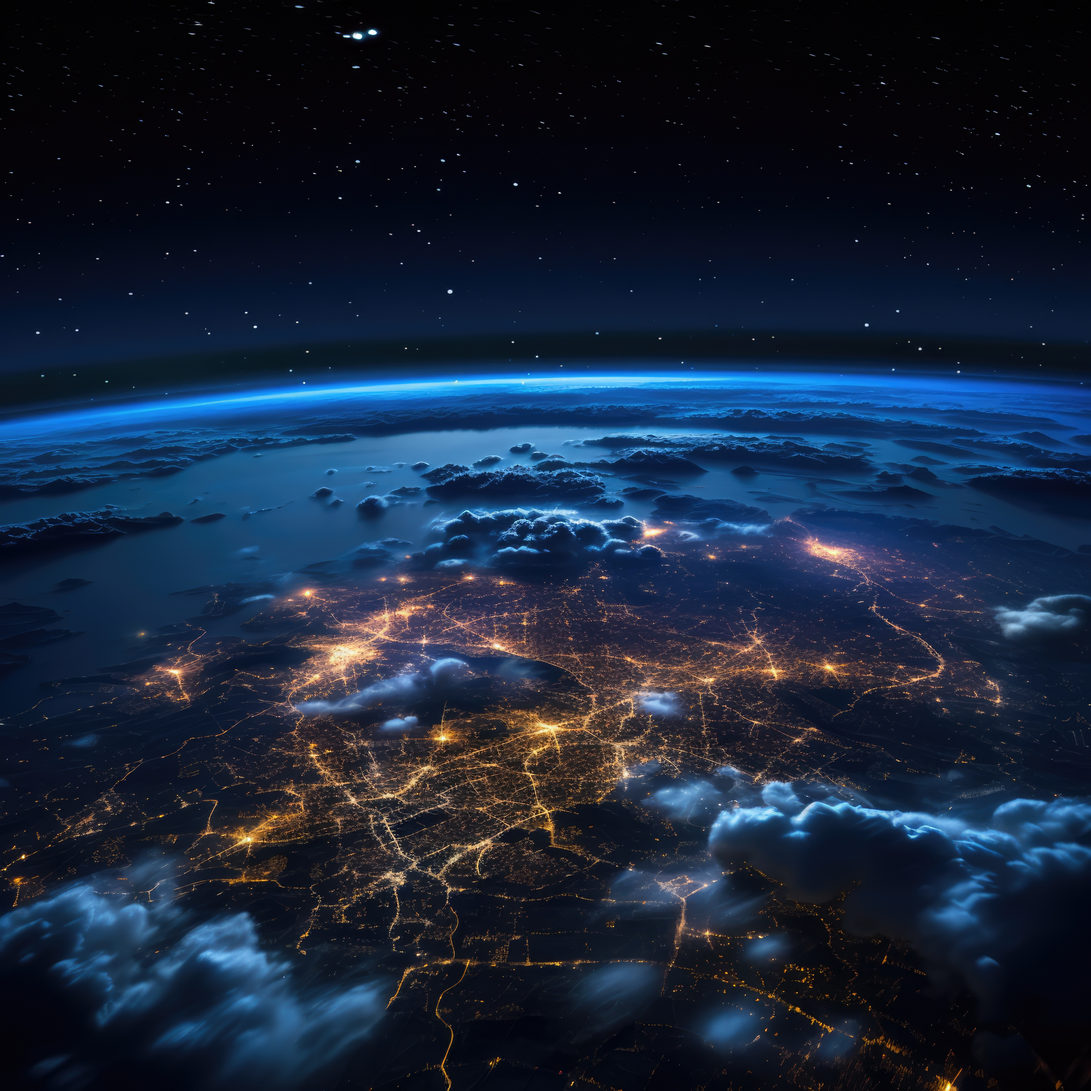
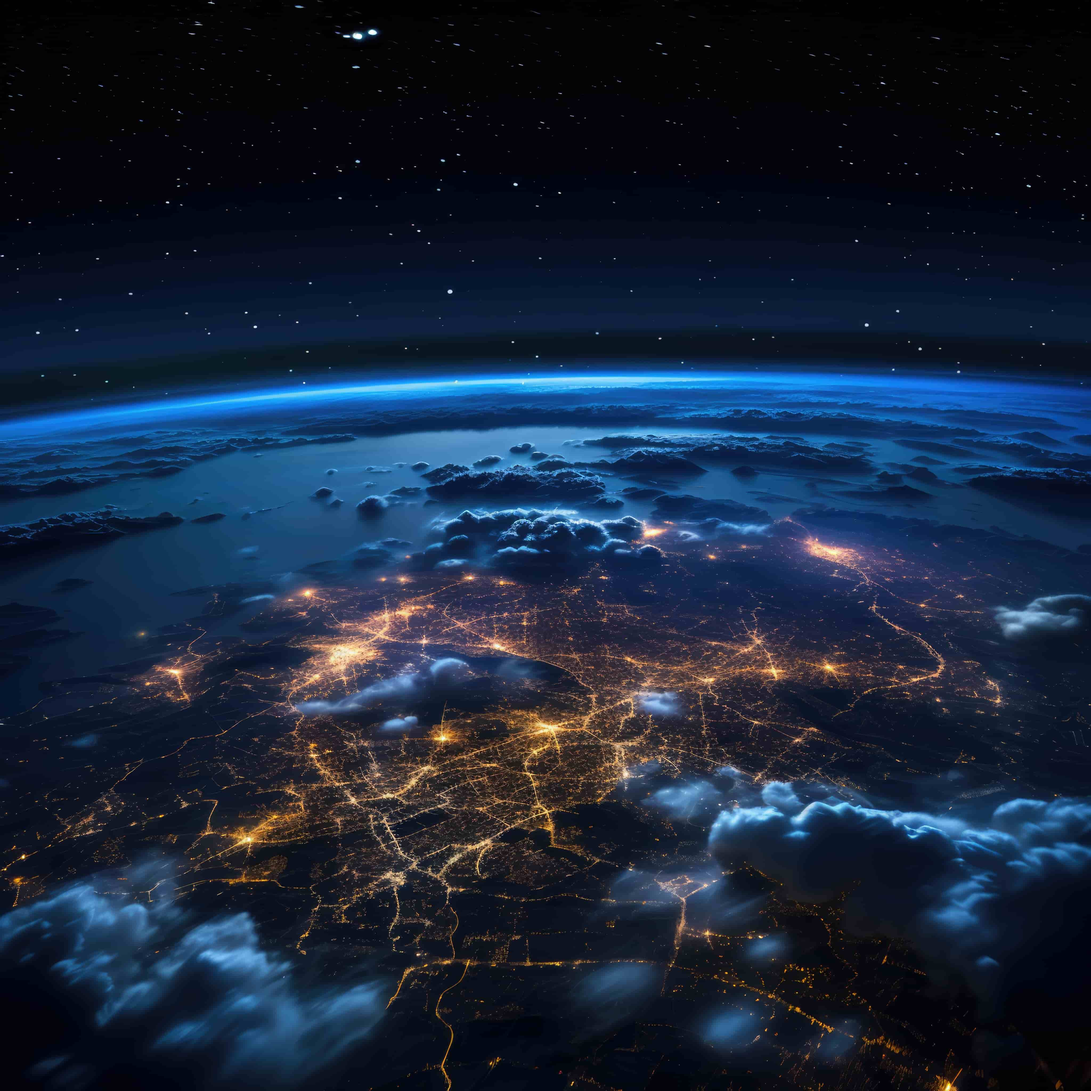
updating storage of images

diff --git a/src/projects.js b/src/projects.js
@@ -2,7 +2,7 @@ import aroundUsImage from "../images/AroundUs.png";
 import expensesImage from "../images/TrackExpenses.png";
 import homelandImage from "../images/Homeland.png";
 import triplePeaksImage from "../images/TriplePeaks.png";
-import mexicoLindoImage from "../images/mexicoLindoImage.png";
+import mexicoLindoImage from "../images/mexicoLindoImage.jpg";
 
 const projects = [
   {
